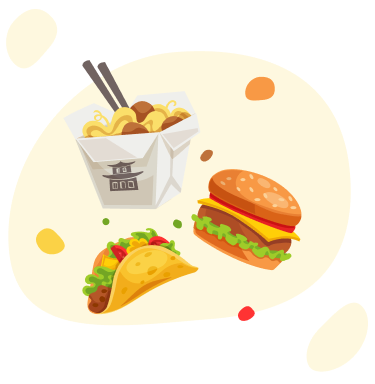
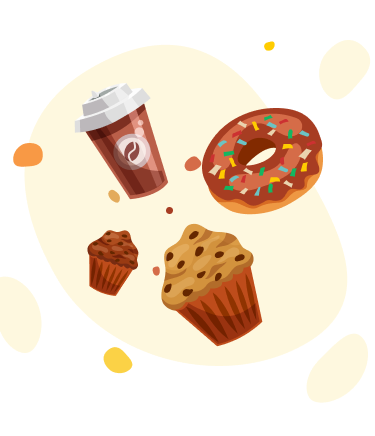
created the on_boarding screens

diff --git a/lib/main.dart b/lib/main.dart
@@ -1,149 +1,14 @@
 import 'package:flutter/material.dart';
+import 'package:foodies/pages/intro_pages/intro_screens.dart';
 
 void main() {
   runApp(MaterialApp(
-    title: 'Flutter Demo',
+    title: 'Foodies',
     theme: ThemeData(
-      // This is the theme of your application.
-      //
-      // TRY THIS: Try running your application with "flutter run". You'll see
-      // the application has a purple toolbar. Then, without quitting the app,
-      // try changing the seedColor in the colorScheme below to Colors.green
-      // and then invoke "hot reload" (save your changes or press the "hot
-      // reload" button in a Flutter-supported IDE, or press "r" if you used
-      // the command line to start the app).
-      //
-      // Notice that the counter didn't reset back to zero; the application
-      // state is not lost during the reload. To reset the state, use hot
-      // restart instead.
-      //
-      // This works for code too, not just values: Most code changes can be
-      // tested with just a hot reload.
-      colorScheme: ColorScheme.fromSeed(seedColor: Colors.deepPurple),
+      colorScheme: ColorScheme.fromSeed(seedColor: Colors.white),
       useMaterial3: true,
     ),
-    home: const MyHomePage(title: 'Flutter Demo Home Page'),
+    home: const IntroScreens(),
     debugShowCheckedModeBanner: false,
   ));
-}
-
-class MyApp extends StatelessWidget {
-  const MyApp({super.key});
-
-  // This widget is the root of your application.
-  @override
-  Widget build(BuildContext context) {
-    return MaterialApp(
-      title: 'Flutter Demo',
-      theme: ThemeData(
-        // This is the theme of your application.
-        //
-        // TRY THIS: Try running your application with "flutter run". You'll see
-        // the application has a purple toolbar. Then, without quitting the app,
-        // try changing the seedColor in the colorScheme below to Colors.green
-        // and then invoke "hot reload" (save your changes or press the "hot
-        // reload" button in a Flutter-supported IDE, or press "r" if you used
-        // the command line to start the app).
-        //
-        // Notice that the counter didn't reset back to zero; the application
-        // state is not lost during the reload. To reset the state, use hot
-        // restart instead.
-        //
-        // This works for code too, not just values: Most code changes can be
-        // tested with just a hot reload.
-        colorScheme: ColorScheme.fromSeed(seedColor: Colors.deepPurple),
-        useMaterial3: true,
-      ),
-      home: const MyHomePage(title: 'Flutter Demo Home Page'),
-      debugShowCheckedModeBanner: false,
-    );
-  }
-}
-
-class MyHomePage extends StatefulWidget {
-  const MyHomePage({super.key, required this.title});
-
-  // This widget is the home page of your application. It is stateful, meaning
-  // that it has a State object (defined below) that contains fields that affect
-  // how it looks.
-
-  // This class is the configuration for the state. It holds the values (in this
-  // case the title) provided by the parent (in this case the App widget) and
-  // used by the build method of the State. Fields in a Widget subclass are
-  // always marked "final".
-
-  final String title;
-
-  @override
-  State<MyHomePage> createState() => _MyHomePageState();
-}
-
-class _MyHomePageState extends State<MyHomePage> {
-  int _counter = 0;
-
-  void _incrementCounter() {
-    setState(() {
-      // This call to setState tells the Flutter framework that something has
-      // changed in this State, which causes it to rerun the build method below
-      // so that the display can reflect the updated values. If we changed
-      // _counter without calling setState(), then the build method would not be
-      // called again, and so nothing would appear to happen.
-      _counter++;
-    });
-  }
-
-  @override
-  Widget build(BuildContext context) {
-    // This method is rerun every time setState is called, for instance as done
-    // by the _incrementCounter method above.
-    //
-    // The Flutter framework has been optimized to make rerunning build methods
-    // fast, so that you can just rebuild anything that needs updating rather
-    // than having to individually change instances of widgets.
-    return Scaffold(
-      appBar: AppBar(
-        // TRY THIS: Try changing the color here to a specific color (to
-        // Colors.amber, perhaps?) and trigger a hot reload to see the AppBar
-        // change color while the other colors stay the same.
-        backgroundColor: Theme.of(context).colorScheme.inversePrimary,
-        // Here we take the value from the MyHomePage object that was created by
-        // the App.build method, and use it to set our appbar title.
-        title: Text(widget.title),
-      ),
-      body: Center(
-        // Center is a layout widget. It takes a single child and positions it
-        // in the middle of the parent.
-        child: Column(
-          // Column is also a layout widget. It takes a list of children and
-          // arranges them vertically. By default, it sizes itself to fit its
-          // children horizontally, and tries to be as tall as its parent.
-          //
-          // Column has various properties to control how it sizes itself and
-          // how it positions its children. Here we use mainAxisAlignment to
-          // center the children vertically; the main axis here is the vertical
-          // axis because Columns are vertical (the cross axis would be
-          // horizontal).
-          //
-          // TRY THIS: Invoke "debug painting" (choose the "Toggle Debug Paint"
-          // action in the IDE, or press "p" in the console), to see the
-          // wireframe for each widget.
-          mainAxisAlignment: MainAxisAlignment.center,
-          children: <Widget>[
-            const Text(
-              'You have pushed the button this many times:',
-            ),
-            Text(
-              '$_counter',
-              style: Theme.of(context).textTheme.headlineMedium,
-            ),
-          ],
-        ),
-      ),
-      floatingActionButton: FloatingActionButton(
-        onPressed: _incrementCounter,
-        tooltip: 'Increment',
-        child: const Icon(Icons.add),
-      ), // This trailing comma makes auto-formatting nicer for build methods.
-    );
-  }
 }

diff --git a/lib/pages/intro_pages/intro_screens.dart b/lib/pages/intro_pages/intro_screens.dart
@@ -1,0 +1,75 @@
+import 'package:flutter/material.dart';
+import 'package:foodies/constants/constants.dart';
+import 'package:foodies/pages/intro_pages/intro_screen_1.dart';
+import 'package:foodies/pages/intro_pages/intro_screen_2.dart';
+import 'package:foodies/pages/login_page.dart';
+import 'package:smooth_page_indicator/smooth_page_indicator.dart';
+
+class IntroScreens extends StatefulWidget {
+  const IntroScreens({super.key});
+
+  @override
+  State<IntroScreens> createState() => _IntroScreensState();
+}
+
+class _IntroScreensState extends State<IntroScreens> {
+  PageController controller = PageController();
+  bool lastPage = false;
+  @override
+  Widget build(BuildContext context) {
+    return Scaffold(
+      backgroundColor: Colors.white,
+      body: Stack(children: [
+        PageView(
+          onPageChanged: (index) {
+            setState(() {
+              lastPage = (index == 1) ? true : false;
+            });
+          },
+          controller: controller,
+          children: const [
+            IntroScreen1(),
+            IntroScreen2(),
+          ],
+        ),
+        Container(
+            alignment: const Alignment(0, 0.9),
+            child: Row(
+                mainAxisAlignment: MainAxisAlignment.spaceEvenly,
+                children: [
+                  TextButton(
+                      onPressed: () {
+                        controller.jumpToPage(1);
+                      },
+                      child: const Text("Skip")),
+                  SmoothPageIndicator(
+                    controller: controller,
+                    count: 2,
+                    effect: WormEffect(
+                      dotWidth: 12.0,
+                      dotHeight: 12.0,
+                      activeDotColor: primaryColor,
+                      dotColor: Colors.grey.shade500,
+                    ),
+                  ),
+                  lastPage
+                      ? TextButton(
+                          onPressed: () {
+                            Navigator.of(context).push(
+                              MaterialPageRoute(
+                                  builder: (context) => const LoginPage()),
+                            );
+                          },
+                          child: const Text("Done"))
+                      : TextButton(
+                          onPressed: () {
+                            controller.nextPage(
+                                duration: const Duration(milliseconds: 500),
+                                curve: Curves.easeIn);
+                          },
+                          child: const Text("Next")),
+                ])),
+      ]),
+    );
+  }
+}

diff --git a/lib/pages/intro_pages/intro_screen_2.dart b/lib/pages/intro_pages/intro_screen_2.dart
@@ -1,0 +1,55 @@
+import 'package:flutter/material.dart';
+
+class IntroScreen2 extends StatelessWidget {
+  const IntroScreen2({super.key});
+
+  @override
+  Widget build(BuildContext context) {
+    return Container(
+      color: Colors.grey.shade200,
+      child: Padding(
+        padding: const EdgeInsets.symmetric(vertical: 30),
+        child: Center(
+          child: Column(
+            children: [
+              Container(
+                width: double.infinity,
+                height: 435,
+                decoration: const BoxDecoration(
+                  image: DecorationImage(
+                      image: AssetImage('assets/images/illustration2.png'),
+                      fit: BoxFit.cover),
+                ),
+              ),
+              const SizedBox(
+                width: 250,
+                height: 122,
+                child: Column(
+                    mainAxisAlignment: MainAxisAlignment.spaceBetween,
+                    crossAxisAlignment: CrossAxisAlignment.center,
+                    children: [
+                      Text(
+                        'Foodies Is Where Your Comfort Food Lives',
+                        style: TextStyle(
+                          fontSize: 24,
+                          fontWeight: FontWeight.bold,
+                        ),
+                        textAlign: TextAlign.center,
+                      ),
+                      // SizedBox(height: 10),
+                      Text(
+                        'Enjoy a fast and smooth Food delivery at your doorstep',
+                        style: TextStyle(
+                          fontSize: 12,
+                        ),
+                        textAlign: TextAlign.center,
+                      )
+                    ]),
+              ),
+            ],
+          ),
+        ),
+      ),
+    );
+  }
+}

diff --git a/lib/pages/intro_pages/intro_screen_1.dart b/lib/pages/intro_pages/intro_screen_1.dart
@@ -1,0 +1,55 @@
+import 'package:flutter/material.dart';
+
+class IntroScreen1 extends StatelessWidget {
+  const IntroScreen1({super.key});
+
+  @override
+  Widget build(BuildContext context) {
+    return Container(
+      color: Colors.grey.shade200,
+      child: Padding(
+        padding: const EdgeInsets.symmetric(vertical: 30),
+        child: Center(
+          child: Column(
+            children: [
+              Container(
+                width: double.infinity,
+                height: 435,
+                decoration: const BoxDecoration(
+                  image: DecorationImage(
+                      image: AssetImage('assets/images/illustration.png'),
+                      fit: BoxFit.cover),
+                ),
+              ),
+              const SizedBox(
+                width: 244,
+                height: 122,
+                child: Column(
+                    mainAxisAlignment: MainAxisAlignment.spaceBetween,
+                    crossAxisAlignment: CrossAxisAlignment.center,
+                    children: [
+                      Text(
+                        'Find Your Comfort Food Here',
+                        style: TextStyle(
+                          fontSize: 24,
+                          fontWeight: FontWeight.bold,
+                        ),
+                        textAlign: TextAlign.center,
+                      ),
+                      // SizedBox(height: 10),
+                      Text(
+                        'Here you can find a Chef or dish for every taste and color.Enjoy!',
+                        style: TextStyle(
+                          fontSize: 12,
+                        ),
+                        textAlign: TextAlign.center,
+                      )
+                    ]),
+              ),
+            ],
+          ),
+        ),
+      ),
+    );
+  }
+}

diff --git a/lib/pages/login_page.dart b/lib/pages/login_page.dart
@@ -1,0 +1,30 @@
+import 'package:flutter/material.dart';
+import 'package:foodies/constants/constants.dart';
+
+class LoginPage extends StatefulWidget {
+  const LoginPage({super.key});
+
+  @override
+  State<LoginPage> createState() => _LoginPageState();
+}
+
+class _LoginPageState extends State<LoginPage> {
+  @override
+  Widget build(BuildContext context) {
+    return Scaffold(
+      body: Container(
+        width: double.infinity,
+        height: double.infinity,
+        decoration: const BoxDecoration(
+          image: DecorationImage(
+            image: AssetImage('assets/images/pattern2.jpg'),
+            fit: BoxFit.cover,
+          ),
+        ),
+        foregroundDecoration: const BoxDecoration(
+          color: Color.fromARGB(50, 21, 190, 120),
+        ),
+      ),
+    );
+  }
+}
